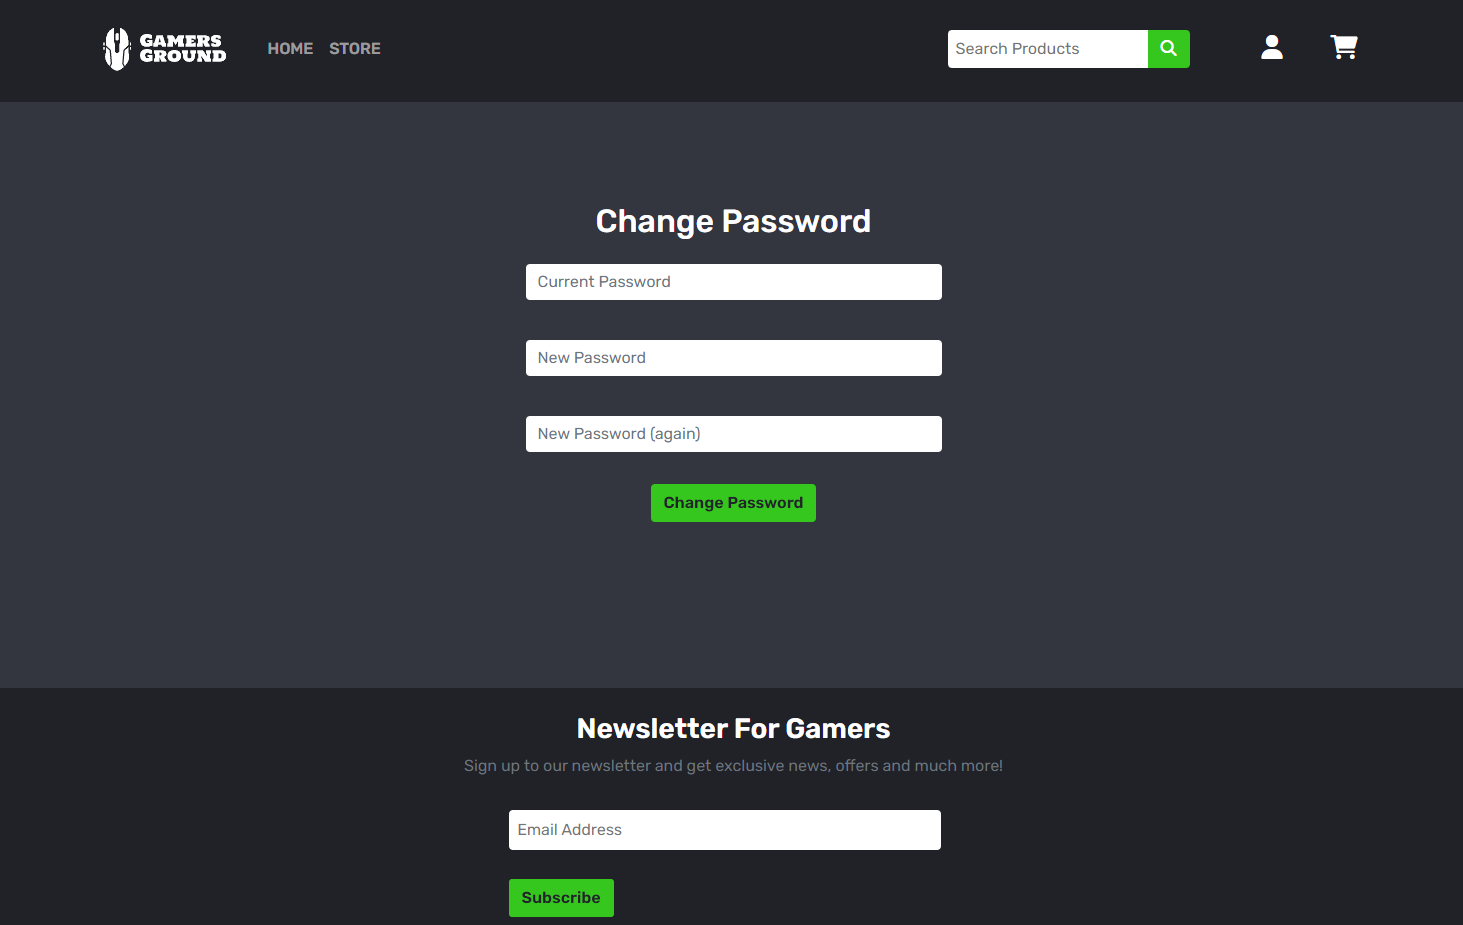
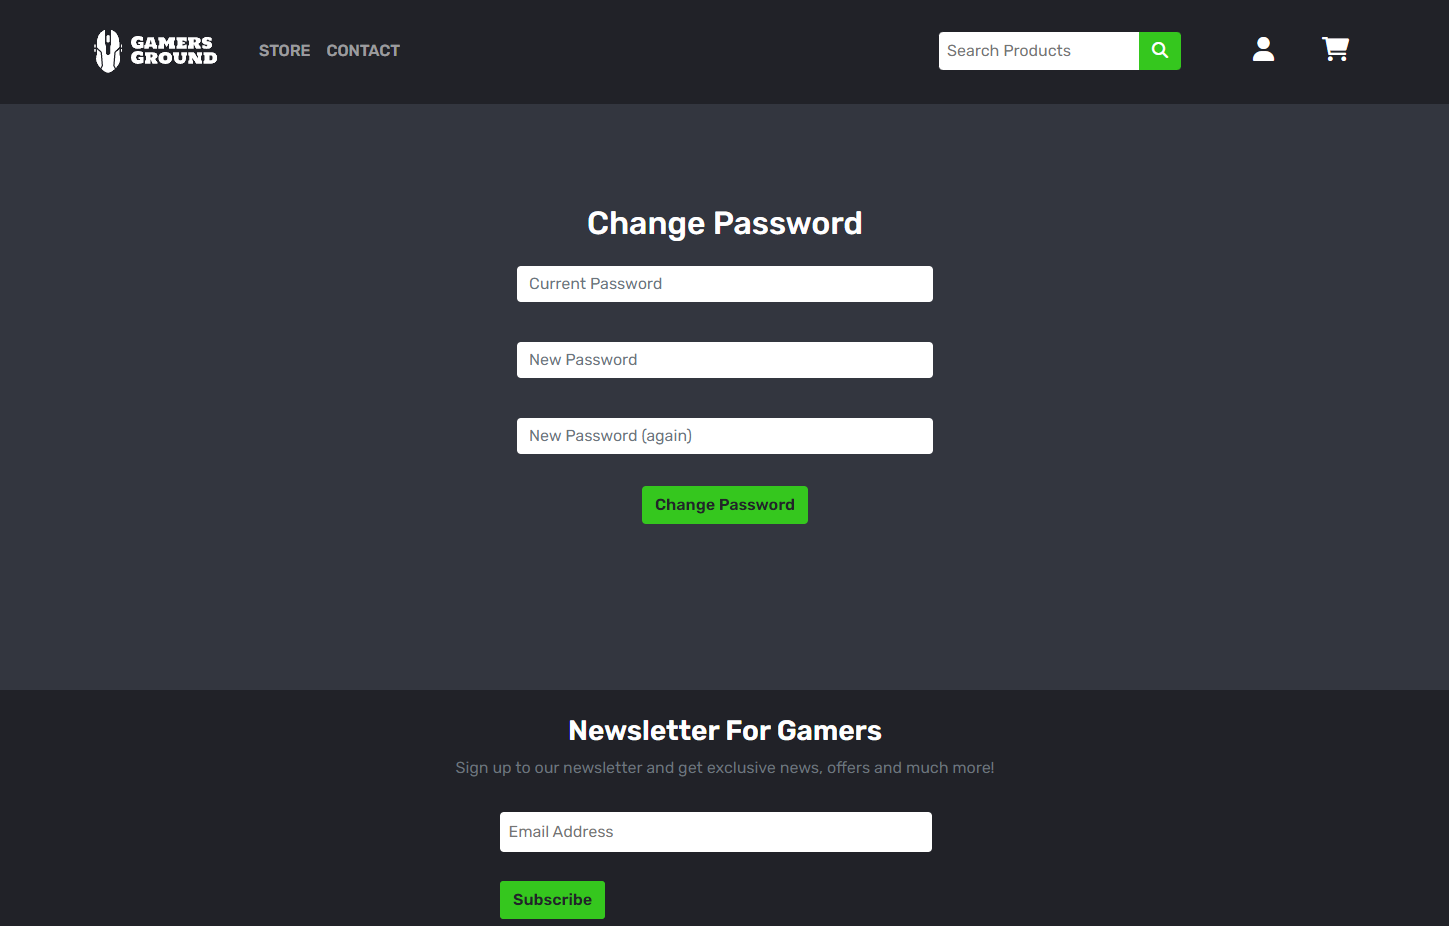
Add inquiry model and contact page feature to README

diff --git a/README.md b/README.md
@@ -307,7 +307,7 @@ The codebase includes the following apps and folders:
 
 - Checkout app, handles the payment system and orders.
 
-- Home app, renders home page and customer service pages.
+- Home app, renders home page, contact page, and customer service pages.
 
 - Products app, handles creating, storing and rendering products.
 
@@ -315,11 +315,11 @@ The codebase includes the following apps and folders:
 
 - Review app, lets users leave a rating and review on products.
 
+- Media  folder, holds product images.
+
 - Static folder, holds static files and images.
 
 - Templates folder, holds base, error, allauth and toasts templates.
-
-ADD MORE?? FIXBEFORESUB
 
 ## Models
 
@@ -402,6 +402,28 @@ To get an idea of the relationships and fields required in the models, an ERD (E
 - A review text field allow users to write some thoughts on a product along with their rating.
 
 - The created_on field tells users when a specific review was posted.
+
+## Model Addition
+
+An Inquiry model was added late in the development process, as time permitted a simple contact system. The model was added to the ERD (Entity Relationship Diagram), which can be seen below.
+
+<details>
+
+<summary>Updated ERD</summary>
+
+![Updated ERD](static/images/readme-images/erd-updated.png)
+
+</details>
+
+### Inquiry Model
+
+- Users are required to fill out their first and last name, along with their email address.
+
+- A phone number can be submitted, although it is optional.
+
+- The inquiry text field lets users ask questions, and the created_on field is automatically set.
+
+- Users do not need to be authenticated, but if they are, their info will be prefilled.
 
 # Agile Methodology
 
@@ -669,7 +691,9 @@ The following section will provide an overview of the features included in Gamer
 
 ## Header
 
- - The header holds a company logo to the left, along with links to the home page and the store. To the right, navigation links for authentication interaction and a shopping cart can be found.
+ - The header holds a company logo to the left, along with links that originally were 'Home' and 'Store', but after adding the contact page were updated to 'Store' and 'Contact'.
+ 
+ - To the right, navigation links for authentication interaction and a shopping cart can be found.
 
  - If a site visitor registers for an account, the authentication link will change appearance to notify the user they are signed in. They will then have access to new links to either visit their profile page or sign out. Additionally, site admins will have a link to add a new product.
 
@@ -1443,6 +1467,32 @@ The following section will provide an overview of the features included in Gamer
 <summary>Terms and Conditions</summary>
 
 ![Terms and Conditions](static/images/readme-images/features/terms-and-conditions.png)
+
+</details>
+
+## Contact Page
+
+ - Added late in the development process as time permitted it, the contact page serves as information on how to get in touch with the company.
+
+ - The form allows users to send an inquiry to the company directly, and they will receive a copy on their submitted email.
+
+ - Users do not need to be authenticated, but if they are, their info will be prefilled.
+
+<details>
+
+<summary>Contact Page</summary>
+
+![Contact Page](static/images/readme-images/features/contact-page.png)
+
+</details>
+
+<details>
+
+<summary>Contact Page - Mobile</summary>
+
+![Contact Page - Mobile 1](static/images/readme-images/features/contact-page-mobile-1.png)
+
+![Contact Page - Mobile 2](static/images/readme-images/features/contact-page-mobile-2.png)
 
 </details>
 
